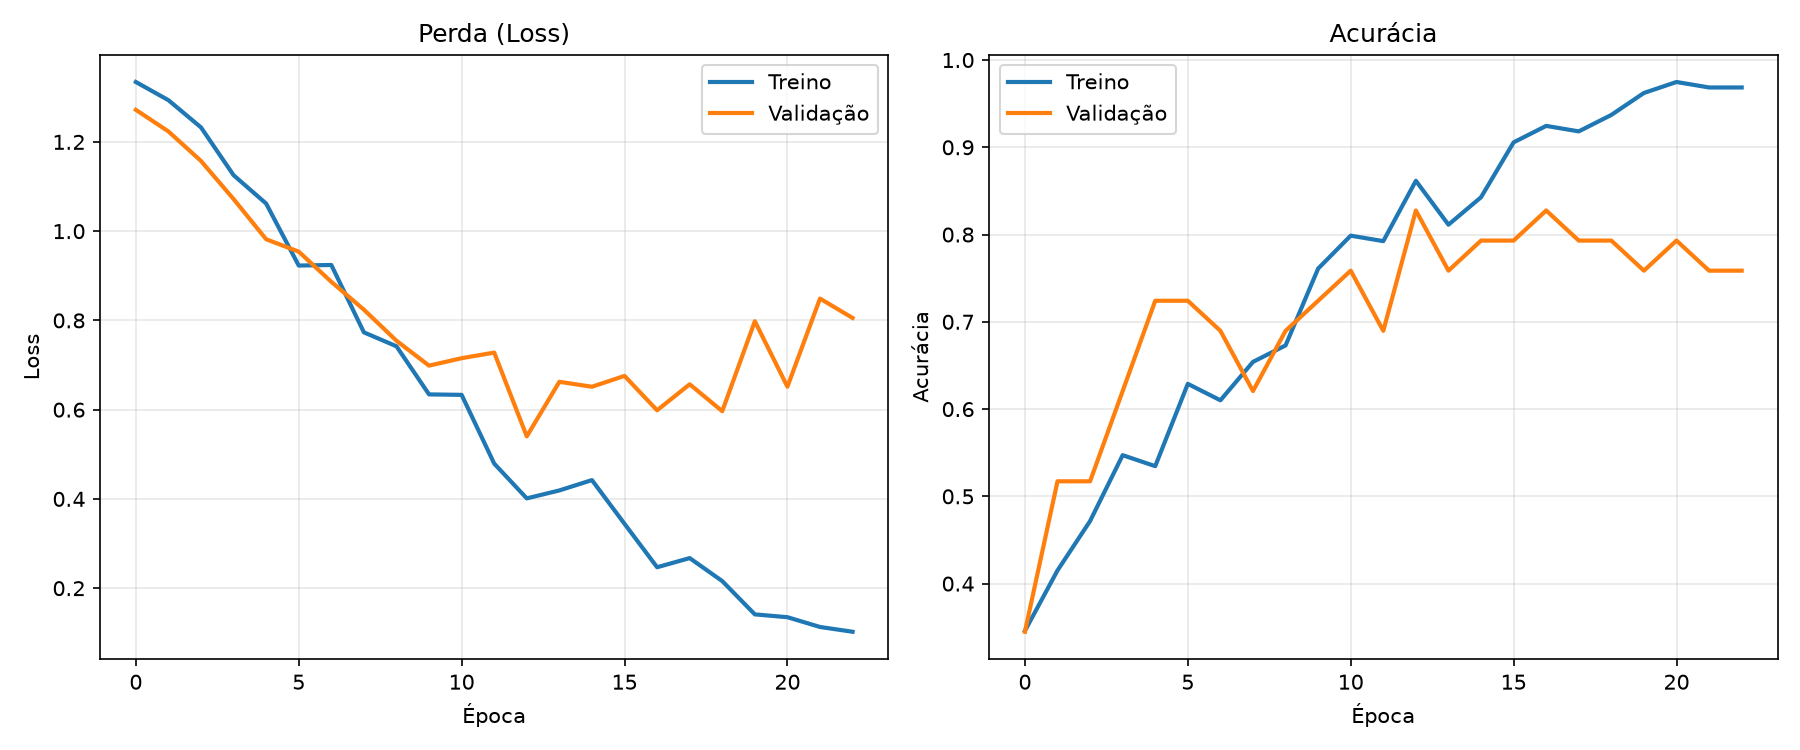
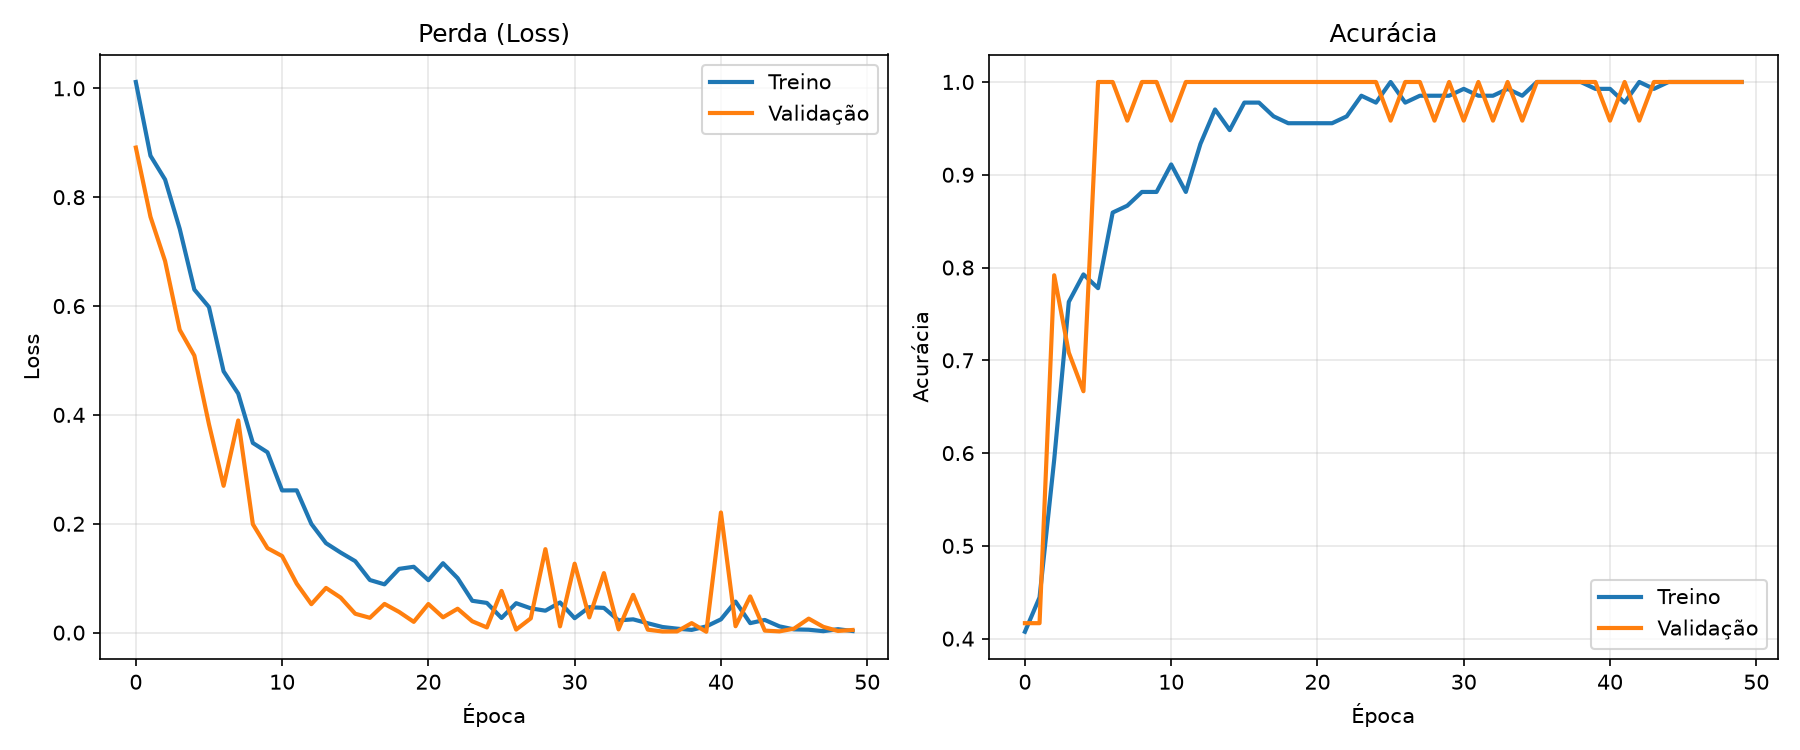
feat: RGB model achieves 97.5% test accuracy (up from 91.89% grayscale)

diff --git a/treino.py b/treino.py
@@ -15,7 +15,6 @@ from tensorflow.keras.layers import (
     Dropout,
 )
 from tensorflow.keras.callbacks import EarlyStopping
-from tensorflow.keras.preprocessing.image import ImageDataGenerator
 
 from carregar_dados import carregar_dados, NOMES_CLASSES
 
@@ -132,20 +131,10 @@ def main():
         verbose=1,
     )
 
-    # 4. Data augmentation (cria variações artificiais das imagens)
-    datagen = ImageDataGenerator(
-        rotation_range=20,       # gira até 20°
-        width_shift_range=0.1,  # desloca horizontal 10%
-        height_shift_range=0.1, # desloca vertical 10%
-        zoom_range=0.1,         # zoom de até 10%
-        brightness_range=[0.8, 1.2],  # varia brilho
-        horizontal_flip=True,   # espelha horizontal
-    )
-
-    # 5. Treinar com augmentation
+    # 4. Treinar
     print("\n🎯 Iniciando treinamento...\n")
     historico = modelo.fit(
-        datagen.flow(X_train, y_train, batch_size=LOTE),
+        X_train, y_train,
         validation_data=(X_val, y_val),
         epochs=EPOCAS,
         batch_size=LOTE,